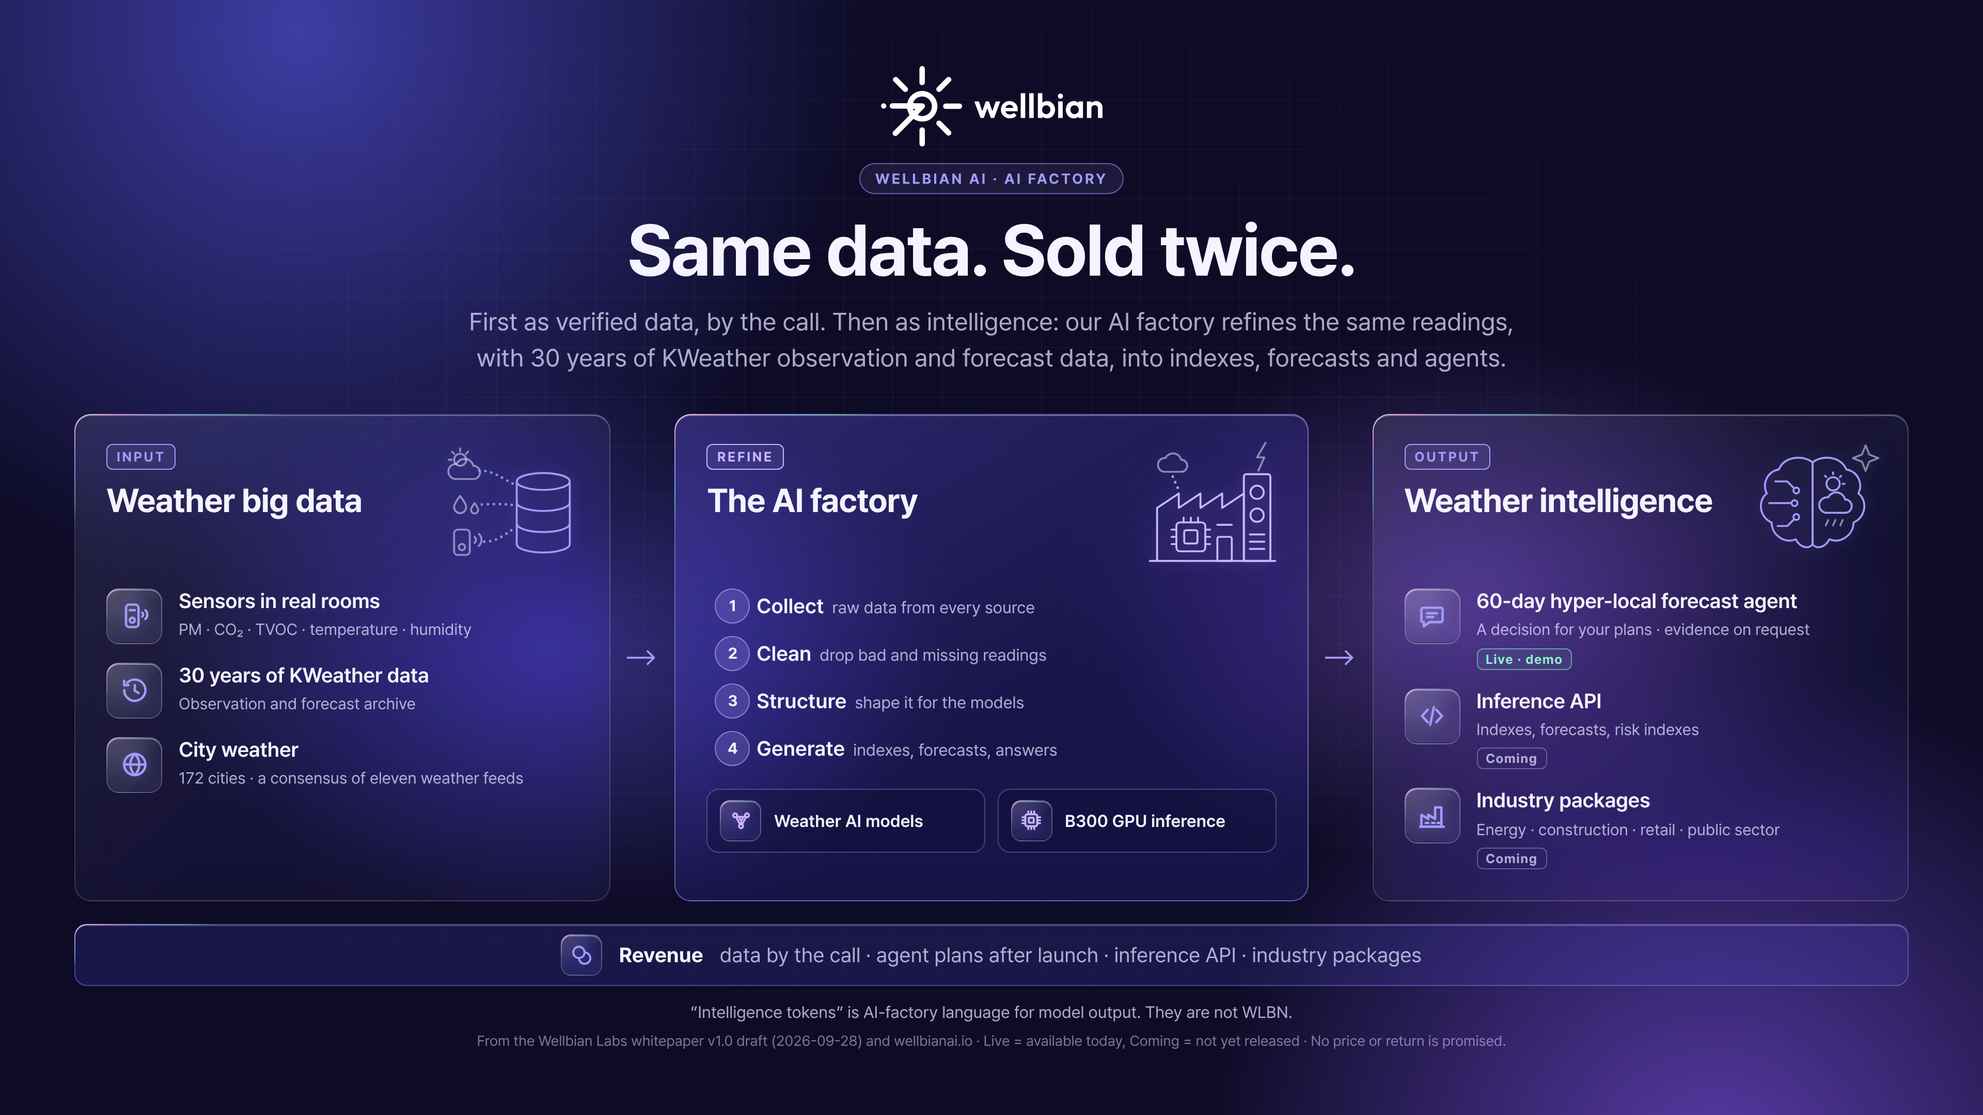
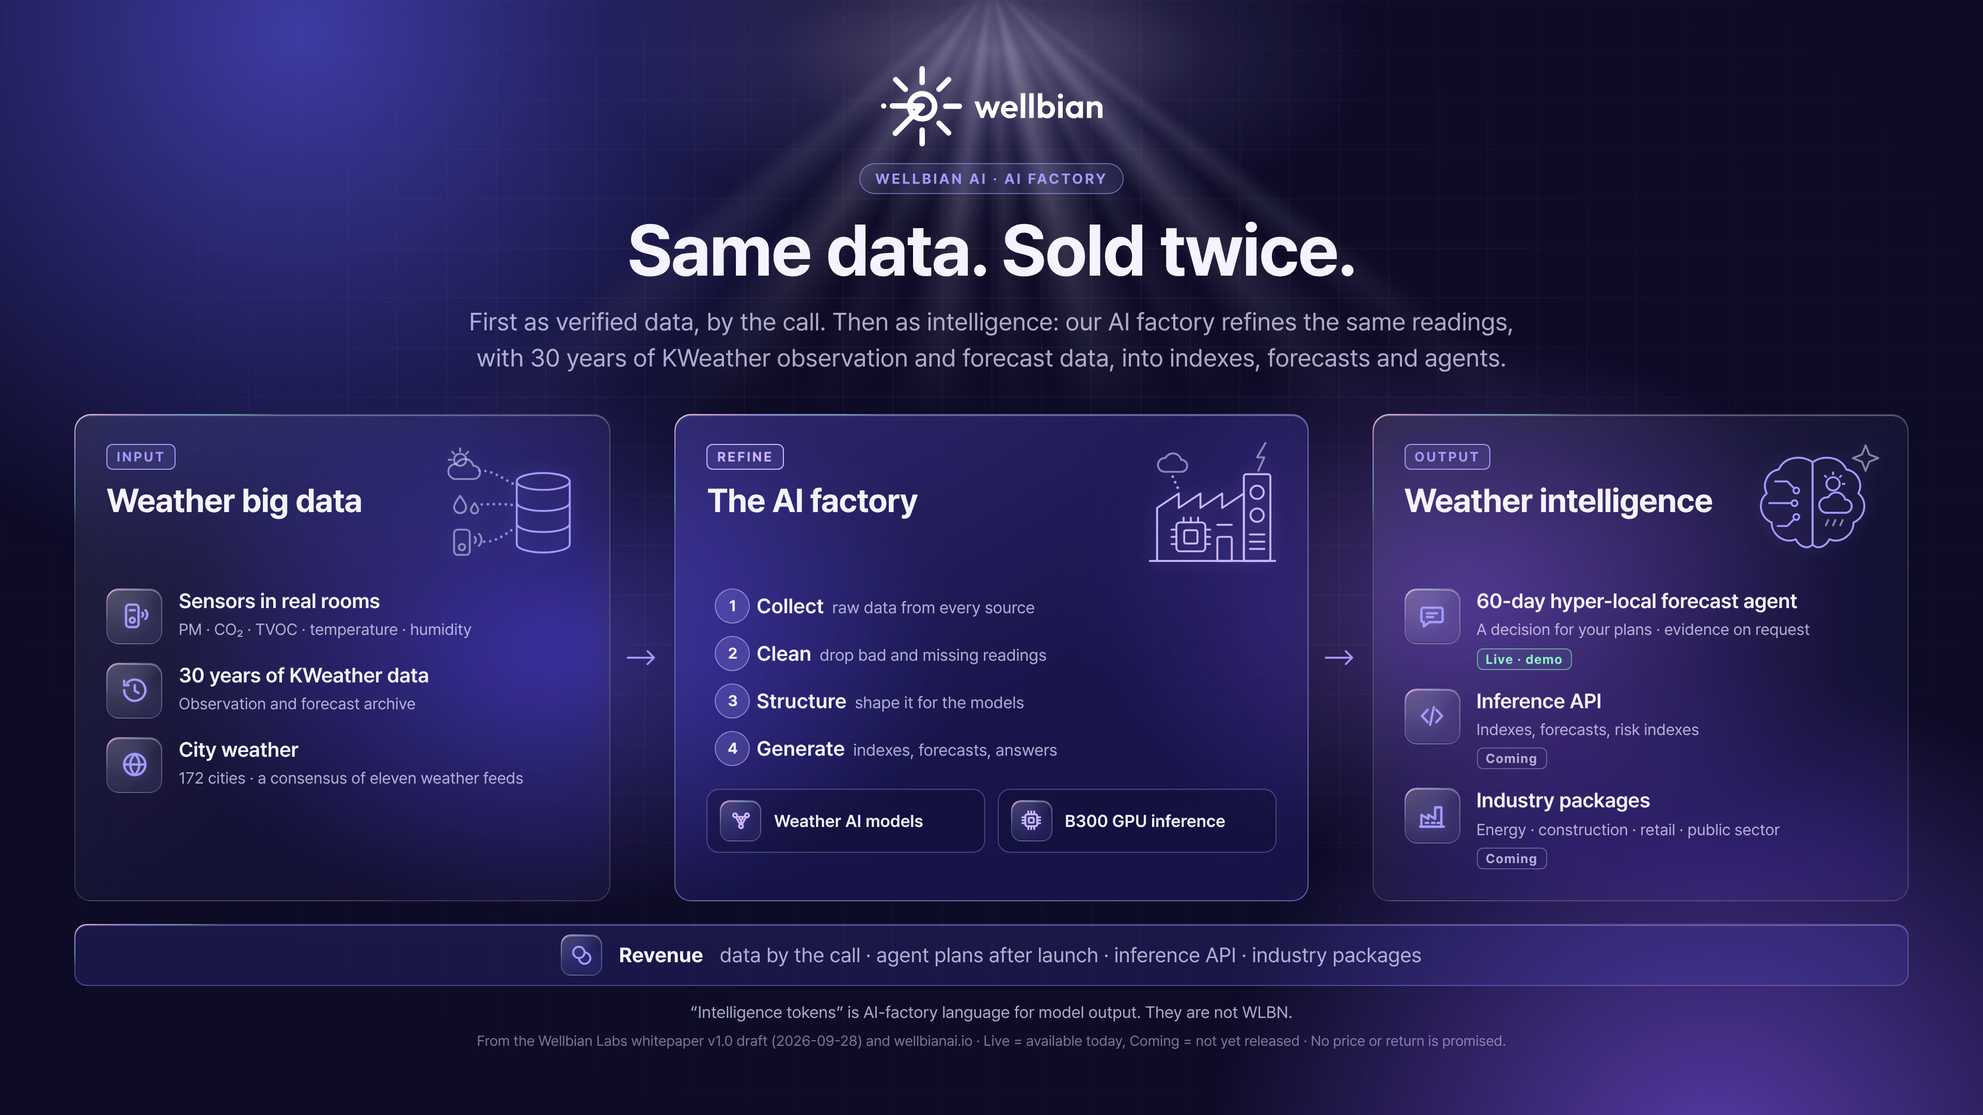
depin: add sunbeams from the top edge down to the part 3 headline
Claude-Session: https://claude.ai/code/session_014drgzQYBXTLjd1zzmsjRaS

Changed region(s): [[0.375, 0.0, 0.625, 0.2792]]

diff --git a/depin/content/ai-factory-1021/ai-factory-en-9x16.html b/depin/content/ai-factory-1021/ai-factory-en-9x16.html
@@ -98,6 +98,11 @@ h1{margin-top:18px;font-size:70px;font-weight:700;letter-spacing:-.025em;line-he
 .ill svg{width:100%;height:100%;fill:none;stroke:currentColor;stroke-width:1.6;stroke-linecap:round;stroke-linejoin:round;filter:drop-shadow(0 0 8px rgba(163,155,255,.35))}
 .ill .l2{stroke:rgba(226,224,255,.55)}
 .ill .dot{stroke:currentColor;stroke-width:2.2;stroke-dasharray:0 5;opacity:.85}
+/* 햇살 — 최상단 가운데에서 메인 카피까지 내려오는 빛줄기(10/21 서우). 배경층(.bgfx) 안이라 글자 위로 올라오지 않는다. */
+.rays{position:absolute;left:50%;top:0;width:1700px;height:410px;transform:translateX(-50%);pointer-events:none;mix-blend-mode:screen;filter:blur(2.5px);
+ background:conic-gradient(from 90deg at 50% -4%,transparent 0deg 36deg,rgba(232,224,255,.12) 39deg,transparent 43deg,rgba(232,224,255,.21) 50deg,transparent 56deg,rgba(232,224,255,.10) 62deg,transparent 65deg,rgba(232,224,255,.28) 75deg,transparent 82deg,rgba(232,224,255,.15) 87deg,transparent 91deg,rgba(232,224,255,.25) 98deg,transparent 105deg,rgba(232,224,255,.11) 112deg,transparent 116deg,rgba(232,224,255,.20) 124deg,transparent 131deg,rgba(232,224,255,.10) 138deg,transparent 142deg 360deg);
+ -webkit-mask-image:linear-gradient(180deg,#000 0%,rgba(0,0,0,.78) 50%,rgba(0,0,0,.42) 72%,transparent 100%);mask-image:linear-gradient(180deg,#000 0%,rgba(0,0,0,.78) 50%,rgba(0,0,0,.42) 72%,transparent 100%)}
+.sunglow{position:absolute;left:50%;top:-120px;width:760px;height:340px;transform:translateX(-50%);border-radius:50%;pointer-events:none;background:radial-gradient(closest-side,rgba(214,200,255,.38),rgba(163,155,255,.12) 55%,rgba(163,155,255,0))}
 .note{margin-top:16px;font-size:16px;color:var(--t2)}
 .note b{color:var(--t1);font-weight:600}
 .foot{margin-top:10px}
@@ -141,13 +146,15 @@ h1{margin-top:14px;font-size:76px;line-height:1.04;text-align:center;letter-spac
 .band b{font-size:24px}
 .band .ico-s{width:46px;height:46px;border-radius:11px}
 .band .ico-s svg{width:26px;height:26px}
+.rays{width:1150px;height:390px}
+.sunglow{width:620px;height:320px}
 .ill{top:16px;right:24px;width:150px;height:150px}
 .ft .hd{min-height:0;padding-right:170px}
 .ft.hub .hd{min-height:130px}
 .note{margin-top:14px;font-size:21px;text-align:center;max-width:960px;text-wrap:balance}
 .foot{margin-top:10px;max-width:960px;text-align:center;font-size:18px;line-height:1.45;text-wrap:balance}
 </style></head><body>
-<div class="bgfx"><div class="g1"></div><div class="g2"></div><div class="g3"></div><div class="g4"></div><div class="grid"></div></div>
+<div class="bgfx"><div class="g1"></div><div class="g2"></div><div class="g3"></div><div class="g4"></div><div class="grid"></div><div class="sunglow"></div><div class="rays"></div></div>
 <div class="wrap">
 <div class="logo"><svg width="165" height="60" xmlns="http://www.w3.org/2000/svg" viewBox="0 0 416 151" fill="none" aria-label="wellbian"><g clip-path="url(#wellbian-logo-clip)"><path fill-rule="evenodd" clip-rule="evenodd" fill="#ffffff" d="M323.43 91.39C318.81 98.61 309.1 100.27 302.55 94.93L302.35 97.34L293.95 97.31V50.89L302.39 50.86L302.43 68.68C309.49 63.1 319.73 65.28 324.02 73.24C327.04 78.84 326.98 85.82 323.42 91.39H323.43ZM317.49 81.66C317.45 76.62 313.86 73.3 309.3 73.49C304.89 73.67 301.86 77.27 301.89 81.88C301.92 86.61 305.16 90.16 309.72 90.18C314.2 90.19 317.53 86.63 317.49 81.67V81.66ZM214.88 66.22H223.48L211.97 97.26L205.76 97.36L199.16 79.47L192.59 97.33L186.44 97.26L174.87 66.23L183.45 66.2L189.73 84.68L196.12 66.22L202.22 66.17L208.66 84.67L214.88 66.23V66.22ZM378.53 97.31L370.12 97.33L369.96 94.74C366.45 97.85 362.06 98.74 357.28 97.51C348.11 95.16 344.12 84.22 347.5 75.2C350.07 68.34 356.83 64.51 363.99 65.84C366.33 66.28 368.25 67.38 370.01 68.9L370.1 66.19H378.53V97.3V97.31ZM370.58 81.66C370.51 76.61 366.94 73.29 362.35 73.49C357.76 73.69 354.94 77.25 354.98 81.87C355.02 86.58 358.24 90.19 362.76 90.17C367.28 90.15 370.65 86.65 370.58 81.66ZM240.35 90.79C243.85 91.12 246.74 90.03 249.11 87.65L254.11 92.67C250.44 96.88 245.21 98.34 239.87 97.97C231.83 97.42 225.52 91.57 224.71 83.58C223.68 73.5 231.35 65.21 241.45 65.53C245.96 65.67 249.95 67.39 252.81 70.93C255.93 74.79 256.93 79.96 255.75 84.77H233.22C234.02 87.97 236.61 90.41 240.35 90.77V90.79ZM247.97 78.41C247.21 74.48 244.42 72.61 241 72.68C237.3 72.6 234.04 74.85 233.34 78.44L247.96 78.41H247.97ZM394.4 78.79L394.29 97.32H385.85V66.21L394.27 66.19L394.39 68.92C397.95 65.85 402.64 64.61 407.39 66.37C411.09 67.74 415.04 71.77 415.06 76.51L415.14 97.32H406.62L406.5 78.54C406.48 75.2 403.19 73.33 400.37 73.36C397.55 73.39 394.41 75.28 394.39 78.79H394.4ZM270.25 97.27L261.8 97.32V50.88L270.25 50.87V97.27ZM286.12 97.27L277.67 97.32V50.88L286.12 50.87V97.27ZM340.52 97.31H331.97V66.21L340.52 66.18V97.31ZM335.77 51.61C338.77 51.33 340.79 53.44 341.02 55.95C341.27 58.75 339.43 61.1 336.79 61.33C334.15 61.56 331.85 59.89 331.47 57.22C331.09 54.59 332.72 51.89 335.77 51.61ZM151.91 75.05C152.05 77.51 150.18 80.42 147.12 80.42H121.23C118.37 80.43 116.35 77.81 116.35 75.4C116.35 72.52 118.49 70.19 121.55 70.19L147.02 70.21C149.83 70.21 151.77 72.57 151.91 75.04M78.11 150.79H75.98C75.74 150.79 75.49 150.74 75.27 150.63C73.01 149.53 71.94 147.62 71.95 144.93L71.99 119.92C71.99 116.96 74.43 114.93 77.08 114.94C79.73 114.95 82.11 117.04 82.12 119.98L82.16 144.92C82.16 147.6 81.13 149.52 78.84 150.63C78.62 150.74 78.37 150.79 78.13 150.79H78.11ZM130.2 121.65C132.32 123.79 132.2 127.11 130.14 129.06C128.03 131.06 124.91 130.82 122.76 128.65L105.14 110.83C103.09 108.76 103.12 105.66 105.05 103.63C106.98 101.6 110.19 101.52 112.31 103.65L130.2 121.64V121.65ZM-9.76585e-06 75.58V73.86C-9.76585e-06 73.63 0.0399902 73.4 0.12999 73.19C1.12999 70.97 3.18999 69.5 5.60999 69.83C8.02999 70.16 10.03 72.42 9.91999 74.95C9.80999 77.48 7.83999 79.61 5.23999 79.76C2.94999 79.89 1.06999 78.44 0.11999 76.22C0.0299902 76.02 -0.0100098 75.79 -0.0100098 75.58H-9.76585e-06ZM52.97 90.7C51.07 87.56 49.87 84.48 49.15 81.06C48.99 80.31 48.35 79.76 47.58 79.76H21.31C18.42 79.76 16.29 77.56 16.19 74.97C16.08 72.18 18.28 69.8 21.31 69.8H47.88C48.62 69.79 49.25 69.27 49.43 68.55C53.4 52.66 69.57 43.24 85.29 47.94C94.48 50.69 101.45 58.07 104.12 66.39C107.39 76.58 105.06 86.87 98.34 94.5C89.03 105.08 73.73 107.18 61.91 99.72C61.27 99.31 60.43 99.39 59.9 99.93L30.57 129.52C28.52 131.59 25.62 131.7 23.52 129.94C21.62 128.35 20.8 124.85 22.93 122.7L52.74 92.68C53.26 92.15 53.34 91.34 52.96 90.71L52.97 90.7ZM80.79 78.93L69.87 89.9C69.07 90.71 69.33 92.1 70.39 92.52C76.53 94.96 83.35 93.88 88.39 89.84C94.03 85.32 96.63 77.87 94.7 70.68C92.54 62.67 85.48 57.21 77.46 57.05C70.29 56.91 63.71 61.01 60.61 67.52C60.12 68.56 60.92 69.76 62.07 69.76L77.66 69.82C79.76 69.82 81.46 71.82 81.95 73.25C82.63 75.22 82.33 77.36 80.78 78.93H80.79ZM61.66 79.79C60.53 79.77 59.73 80.9 60.14 81.96C60.56 83.04 61.96 83.33 62.77 82.51C63.75 81.51 63.06 79.82 61.66 79.79ZM78.15 0C78.4 0 78.65 0.05 78.87 0.16C81.11 1.27 82.14 3.2 82.14 5.87L82.1 30.81C82.1 33.75 79.72 35.84 77.06 35.85C74.4 35.86 71.98 33.83 71.97 30.87L71.93 5.86C71.93 3.16 73 1.25 75.37 0.15C75.58 0.05 75.83 0 76.06 0H78.14L78.15 0ZM112.39 46.97C110.21 49.17 107.12 49.03 105.11 47.13C103.36 45.48 102.84 42.1 104.86 40.07L122.89 21.84C124.89 19.82 127.79 19.77 129.78 21.35C131.84 22.97 132.6 26.53 130.51 28.64L112.38 46.97H112.39ZM49.43 40.36C51.26 42.21 50.67 45.34 49.2 46.95C47.55 48.76 44.23 49.43 42.3 47.5L23.59 28.67C21.68 26.75 22.19 23.58 23.76 21.9C25.45 20.09 28.75 19.48 30.74 21.5L49.42 40.37L49.43 40.36Z"></path></g><defs><clipPath id="wellbian-logo-clip"><rect width="415.14" height="150.79" fill="white"></rect></clipPath></defs></svg></div>
 <div class="kicker">Wellbian AI · AI factory</div>

diff --git a/depin/content/ai-factory-1021/ai-factory-en.html b/depin/content/ai-factory-1021/ai-factory-en.html
@@ -98,11 +98,16 @@ h1{margin-top:18px;font-size:70px;font-weight:700;letter-spacing:-.025em;line-he
 .ill svg{width:100%;height:100%;fill:none;stroke:currentColor;stroke-width:1.6;stroke-linecap:round;stroke-linejoin:round;filter:drop-shadow(0 0 8px rgba(163,155,255,.35))}
 .ill .l2{stroke:rgba(226,224,255,.55)}
 .ill .dot{stroke:currentColor;stroke-width:2.2;stroke-dasharray:0 5;opacity:.85}
+/* 햇살 — 최상단 가운데에서 메인 카피까지 내려오는 빛줄기(10/21 서우). 배경층(.bgfx) 안이라 글자 위로 올라오지 않는다. */
+.rays{position:absolute;left:50%;top:0;width:1700px;height:410px;transform:translateX(-50%);pointer-events:none;mix-blend-mode:screen;filter:blur(2.5px);
+ background:conic-gradient(from 90deg at 50% -4%,transparent 0deg 36deg,rgba(232,224,255,.12) 39deg,transparent 43deg,rgba(232,224,255,.21) 50deg,transparent 56deg,rgba(232,224,255,.10) 62deg,transparent 65deg,rgba(232,224,255,.28) 75deg,transparent 82deg,rgba(232,224,255,.15) 87deg,transparent 91deg,rgba(232,224,255,.25) 98deg,transparent 105deg,rgba(232,224,255,.11) 112deg,transparent 116deg,rgba(232,224,255,.20) 124deg,transparent 131deg,rgba(232,224,255,.10) 138deg,transparent 142deg 360deg);
+ -webkit-mask-image:linear-gradient(180deg,#000 0%,rgba(0,0,0,.78) 50%,rgba(0,0,0,.42) 72%,transparent 100%);mask-image:linear-gradient(180deg,#000 0%,rgba(0,0,0,.78) 50%,rgba(0,0,0,.42) 72%,transparent 100%)}
+.sunglow{position:absolute;left:50%;top:-120px;width:760px;height:340px;transform:translateX(-50%);border-radius:50%;pointer-events:none;background:radial-gradient(closest-side,rgba(214,200,255,.38),rgba(163,155,255,.12) 55%,rgba(163,155,255,0))}
 .note{margin-top:16px;font-size:16px;color:var(--t2)}
 .note b{color:var(--t1);font-weight:600}
 .foot{margin-top:10px}
 </style></head><body>
-<div class="bgfx"><div class="g1"></div><div class="g2"></div><div class="g3"></div><div class="g4"></div><div class="grid"></div></div>
+<div class="bgfx"><div class="g1"></div><div class="g2"></div><div class="g3"></div><div class="g4"></div><div class="grid"></div><div class="sunglow"></div><div class="rays"></div></div>
 <div class="wrap">
 <div class="logo"><svg width="165" height="60" xmlns="http://www.w3.org/2000/svg" viewBox="0 0 416 151" fill="none" aria-label="wellbian"><g clip-path="url(#wellbian-logo-clip)"><path fill-rule="evenodd" clip-rule="evenodd" fill="#ffffff" d="M323.43 91.39C318.81 98.61 309.1 100.27 302.55 94.93L302.35 97.34L293.95 97.31V50.89L302.39 50.86L302.43 68.68C309.49 63.1 319.73 65.28 324.02 73.24C327.04 78.84 326.98 85.82 323.42 91.39H323.43ZM317.49 81.66C317.45 76.62 313.86 73.3 309.3 73.49C304.89 73.67 301.86 77.27 301.89 81.88C301.92 86.61 305.16 90.16 309.72 90.18C314.2 90.19 317.53 86.63 317.49 81.67V81.66ZM214.88 66.22H223.48L211.97 97.26L205.76 97.36L199.16 79.47L192.59 97.33L186.44 97.26L174.87 66.23L183.45 66.2L189.73 84.68L196.12 66.22L202.22 66.17L208.66 84.67L214.88 66.23V66.22ZM378.53 97.31L370.12 97.33L369.96 94.74C366.45 97.85 362.06 98.74 357.28 97.51C348.11 95.16 344.12 84.22 347.5 75.2C350.07 68.34 356.83 64.51 363.99 65.84C366.33 66.28 368.25 67.38 370.01 68.9L370.1 66.19H378.53V97.3V97.31ZM370.58 81.66C370.51 76.61 366.94 73.29 362.35 73.49C357.76 73.69 354.94 77.25 354.98 81.87C355.02 86.58 358.24 90.19 362.76 90.17C367.28 90.15 370.65 86.65 370.58 81.66ZM240.35 90.79C243.85 91.12 246.74 90.03 249.11 87.65L254.11 92.67C250.44 96.88 245.21 98.34 239.87 97.97C231.83 97.42 225.52 91.57 224.71 83.58C223.68 73.5 231.35 65.21 241.45 65.53C245.96 65.67 249.95 67.39 252.81 70.93C255.93 74.79 256.93 79.96 255.75 84.77H233.22C234.02 87.97 236.61 90.41 240.35 90.77V90.79ZM247.97 78.41C247.21 74.48 244.42 72.61 241 72.68C237.3 72.6 234.04 74.85 233.34 78.44L247.96 78.41H247.97ZM394.4 78.79L394.29 97.32H385.85V66.21L394.27 66.19L394.39 68.92C397.95 65.85 402.64 64.61 407.39 66.37C411.09 67.74 415.04 71.77 415.06 76.51L415.14 97.32H406.62L406.5 78.54C406.48 75.2 403.19 73.33 400.37 73.36C397.55 73.39 394.41 75.28 394.39 78.79H394.4ZM270.25 97.27L261.8 97.32V50.88L270.25 50.87V97.27ZM286.12 97.27L277.67 97.32V50.88L286.12 50.87V97.27ZM340.52 97.31H331.97V66.21L340.52 66.18V97.31ZM335.77 51.61C338.77 51.33 340.79 53.44 341.02 55.95C341.27 58.75 339.43 61.1 336.79 61.33C334.15 61.56 331.85 59.89 331.47 57.22C331.09 54.59 332.72 51.89 335.77 51.61ZM151.91 75.05C152.05 77.51 150.18 80.42 147.12 80.42H121.23C118.37 80.43 116.35 77.81 116.35 75.4C116.35 72.52 118.49 70.19 121.55 70.19L147.02 70.21C149.83 70.21 151.77 72.57 151.91 75.04M78.11 150.79H75.98C75.74 150.79 75.49 150.74 75.27 150.63C73.01 149.53 71.94 147.62 71.95 144.93L71.99 119.92C71.99 116.96 74.43 114.93 77.08 114.94C79.73 114.95 82.11 117.04 82.12 119.98L82.16 144.92C82.16 147.6 81.13 149.52 78.84 150.63C78.62 150.74 78.37 150.79 78.13 150.79H78.11ZM130.2 121.65C132.32 123.79 132.2 127.11 130.14 129.06C128.03 131.06 124.91 130.82 122.76 128.65L105.14 110.83C103.09 108.76 103.12 105.66 105.05 103.63C106.98 101.6 110.19 101.52 112.31 103.65L130.2 121.64V121.65ZM-9.76585e-06 75.58V73.86C-9.76585e-06 73.63 0.0399902 73.4 0.12999 73.19C1.12999 70.97 3.18999 69.5 5.60999 69.83C8.02999 70.16 10.03 72.42 9.91999 74.95C9.80999 77.48 7.83999 79.61 5.23999 79.76C2.94999 79.89 1.06999 78.44 0.11999 76.22C0.0299902 76.02 -0.0100098 75.79 -0.0100098 75.58H-9.76585e-06ZM52.97 90.7C51.07 87.56 49.87 84.48 49.15 81.06C48.99 80.31 48.35 79.76 47.58 79.76H21.31C18.42 79.76 16.29 77.56 16.19 74.97C16.08 72.18 18.28 69.8 21.31 69.8H47.88C48.62 69.79 49.25 69.27 49.43 68.55C53.4 52.66 69.57 43.24 85.29 47.94C94.48 50.69 101.45 58.07 104.12 66.39C107.39 76.58 105.06 86.87 98.34 94.5C89.03 105.08 73.73 107.18 61.91 99.72C61.27 99.31 60.43 99.39 59.9 99.93L30.57 129.52C28.52 131.59 25.62 131.7 23.52 129.94C21.62 128.35 20.8 124.85 22.93 122.7L52.74 92.68C53.26 92.15 53.34 91.34 52.96 90.71L52.97 90.7ZM80.79 78.93L69.87 89.9C69.07 90.71 69.33 92.1 70.39 92.52C76.53 94.96 83.35 93.88 88.39 89.84C94.03 85.32 96.63 77.87 94.7 70.68C92.54 62.67 85.48 57.21 77.46 57.05C70.29 56.91 63.71 61.01 60.61 67.52C60.12 68.56 60.92 69.76 62.07 69.76L77.66 69.82C79.76 69.82 81.46 71.82 81.95 73.25C82.63 75.22 82.33 77.36 80.78 78.93H80.79ZM61.66 79.79C60.53 79.77 59.73 80.9 60.14 81.96C60.56 83.04 61.96 83.33 62.77 82.51C63.75 81.51 63.06 79.82 61.66 79.79ZM78.15 0C78.4 0 78.65 0.05 78.87 0.16C81.11 1.27 82.14 3.2 82.14 5.87L82.1 30.81C82.1 33.75 79.72 35.84 77.06 35.85C74.4 35.86 71.98 33.83 71.97 30.87L71.93 5.86C71.93 3.16 73 1.25 75.37 0.15C75.58 0.05 75.83 0 76.06 0H78.14L78.15 0ZM112.39 46.97C110.21 49.17 107.12 49.03 105.11 47.13C103.36 45.48 102.84 42.1 104.86 40.07L122.89 21.84C124.89 19.82 127.79 19.77 129.78 21.35C131.84 22.97 132.6 26.53 130.51 28.64L112.38 46.97H112.39ZM49.43 40.36C51.26 42.21 50.67 45.34 49.2 46.95C47.55 48.76 44.23 49.43 42.3 47.5L23.59 28.67C21.68 26.75 22.19 23.58 23.76 21.9C25.45 20.09 28.75 19.48 30.74 21.5L49.42 40.37L49.43 40.36Z"></path></g><defs><clipPath id="wellbian-logo-clip"><rect width="415.14" height="150.79" fill="white"></rect></clipPath></defs></svg></div>
 <div class="kicker">Wellbian AI · AI factory</div>

diff --git a/depin/content/ai-factory-1021/build.py b/depin/content/ai-factory-1021/build.py
@@ -82,6 +82,11 @@ XCSS = """
 .ill svg{width:100%;height:100%;fill:none;stroke:currentColor;stroke-width:1.6;stroke-linecap:round;stroke-linejoin:round;filter:drop-shadow(0 0 8px rgba(163,155,255,.35))}
 .ill .l2{stroke:rgba(226,224,255,.55)}
 .ill .dot{stroke:currentColor;stroke-width:2.2;stroke-dasharray:0 5;opacity:.85}
+/* 햇살 — 최상단 가운데에서 메인 카피까지 내려오는 빛줄기(10/21 서우). 배경층(.bgfx) 안이라 글자 위로 올라오지 않는다. */
+.rays{position:absolute;left:50%;top:0;width:1700px;height:410px;transform:translateX(-50%);pointer-events:none;mix-blend-mode:screen;filter:blur(2.5px);
+ background:conic-gradient(from 90deg at 50% -4%,transparent 0deg 36deg,rgba(232,224,255,.12) 39deg,transparent 43deg,rgba(232,224,255,.21) 50deg,transparent 56deg,rgba(232,224,255,.10) 62deg,transparent 65deg,rgba(232,224,255,.28) 75deg,transparent 82deg,rgba(232,224,255,.15) 87deg,transparent 91deg,rgba(232,224,255,.25) 98deg,transparent 105deg,rgba(232,224,255,.11) 112deg,transparent 116deg,rgba(232,224,255,.20) 124deg,transparent 131deg,rgba(232,224,255,.10) 138deg,transparent 142deg 360deg);
+ -webkit-mask-image:linear-gradient(180deg,#000 0%,rgba(0,0,0,.78) 50%,rgba(0,0,0,.42) 72%,transparent 100%);mask-image:linear-gradient(180deg,#000 0%,rgba(0,0,0,.78) 50%,rgba(0,0,0,.42) 72%,transparent 100%)}
+.sunglow{position:absolute;left:50%;top:-120px;width:760px;height:340px;transform:translateX(-50%);border-radius:50%;pointer-events:none;background:radial-gradient(closest-side,rgba(214,200,255,.38),rgba(163,155,255,.12) 55%,rgba(163,155,255,0))}
 .note{margin-top:16px;font-size:16px;color:var(--t2)}
 .note b{color:var(--t1);font-weight:600}
 .foot{margin-top:10px}
@@ -127,6 +132,8 @@ h1{margin-top:14px;font-size:76px;line-height:1.04;text-align:center;letter-spac
 .band b{font-size:24px}
 .band .ico-s{width:46px;height:46px;border-radius:11px}
 .band .ico-s svg{width:26px;height:26px}
+.rays{width:1150px;height:390px}
+.sunglow{width:620px;height:320px}
 .ill{top:16px;right:24px;width:150px;height:150px}
 .ft .hd{min-height:0;padding-right:170px}
 .ft.hub .hd{min-height:130px}
@@ -188,7 +195,7 @@ def page(lang, vertical=False):
     bn, bd = t["band"]
     css = A.CSS + XCSS + (VCSS if vertical else "")
     return f"""<!doctype html><html lang="{t['lang']}"><head><meta charset="utf-8"><title>wellbian — {t['h1']}</title><style>{css}</style></head><body>
-<div class="bgfx"><div class="g1"></div><div class="g2"></div><div class="g3"></div><div class="g4"></div><div class="grid"></div></div>
+<div class="bgfx"><div class="g1"></div><div class="g2"></div><div class="g3"></div><div class="g4"></div><div class="grid"></div><div class="sunglow"></div><div class="rays"></div></div>
 <div class="wrap">
 <div class="logo">{A.LOGO}</div>
 <div class="kicker">{t['kicker']}</div>

diff --git a/depin/reports/work-log.md b/depin/reports/work-log.md
@@ -2518,3 +2518,4 @@ Thanks Odelia — writing to you at that address today. Mine is support@wellbian
 - **연재 Part 3 2차(10/21, 서우 「로고 30% 더 · 수익성 기반 카피」)** — 로고 1.3배 · 제목 「Same data. Sold twice.」 · 띠 「Revenue」(데이터 호출 · 에이전트 요금제 출시 뒤 · 추론 API · 산업 패키지) · 문안 다시(링크드인 1240자 · X 263/232/212). 추론 API 단가 · 과금 방식은 미공개라 「by the call」 0. `content/ai-factory-1021/`.
 - **연재 Part 3 3차(10/21, 서우 「큰 테이블 우측 상단에 큰 svg 일러스트」)** — 세 타일 우상단 라인 일러스트(데이터 모임 → DB · 지구 네트워크 + 번개 → GPU · 해 구름 + 상승선) · 제목 칸 높이 확보로 겹침 0 · 큐브(토큰 연상) 0. `content/ai-factory-1021/`.
 - **연재 Part 3 4차(10/21, 서우 「AI factory 는 건물처럼 · intelligence 는 뇌 형태 · 날씨」)** — 정제 = 공장 건물(톱니 지붕 · 서버 동 · 정면 GPU 칩 · 구름 · 번개) · 출력 = 뇌(왼쪽 회로 · 오른쪽 해 · 구름 · 비). `content/ai-factory-1021/`.
+- **연재 Part 3 5차(10/21, 서우 「최상단에서 메인 카피까지 햇살」)** — 배경층 빛줄기 + 위 가운데 빛 번짐, 첫 판은 로고 근처에서 끊겨 길이 · 밝기를 늘려 제목 줄까지. `content/ai-factory-1021/`.

diff --git a/depin/content/ai-factory-1021/README.md b/depin/content/ai-factory-1021/README.md
@@ -12,6 +12,8 @@
 
 - **10/21 4차(서우 「AI factory 는 건물처럼 · weather intelligence 는 더 인텔리전스스럽게 — 뇌 형태 · 날씨」)**: 정제 일러스트 = 톱니 지붕 공장동 + 냉각 팬 서버 동 + 정면 GPU 칩 · 문, 위로 구름(데이터 · 점선)과 번개(전력). 출력 일러스트 = 뇌 — 왼쪽 반구는 회로 선 · 노드(생각), 오른쪽 반구는 해 · 구름 · 비(날씨), 가운데 고랑, 오른쪽 위 반짝임.
 
+- **10/21 5차(서우 「최상단에서 메인 카피까지 내려오는 햇살」)**: 배경층에 위 가운데에서 퍼지는 빛줄기(`.rays` — 불규칙한 원뿔 그라데이션 · 살짝 흐림 · 아래로 갈수록 옅게, 제목 줄에서 약 40% 남김) + 위 가운데 은은한 빛 번짐(`.sunglow`). 글자 위로는 올라오지 않는다.
+
 ## 백서 대조 (Company whitepaper v1.0 초안 2026-09-28 · wellbianai.io, 10/21 열람)
 
 | 원글 · 그림 | 백서 · 사이트 | 3편에서 |
